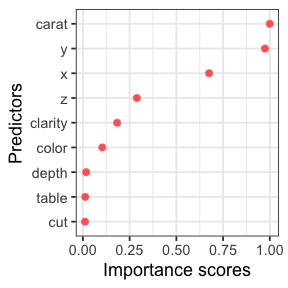
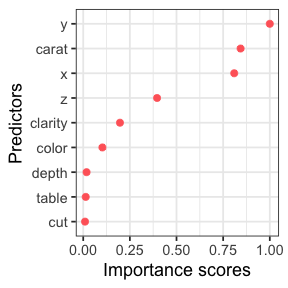
typo

diff --git a/pres/intro-to-rf.html b/pres/intro-to-rf.html
@@ -281,32 +281,35 @@ rpart.plot(first_model)
 ---
 
 
-```r
-# Adding now the carat as a predictor
-second_model &lt;- rpart(price ~ cut + color + depth + carat, 
-                     data = data)
 
+```r
+# Adding now a few more predictors
+
+second_model &lt;- rpart(price ~ cut + color + depth + carat, 
+                     data = train)
 second_model
 ```
 
 ```
-## n= 53940 
+## n= 40533 
 ## 
 ## node), split, n, deviance, yval
 ##       * denotes terminal node
 ## 
-##  1) root 53940 858473100000  3932.800  
-##    2) carat&lt; 0.995 34880  43459420000  1632.641  
-##      4) carat&lt; 0.625 24787   6616641000  1052.009 *
-##      5) carat&gt;=0.625 10093   7963754000  3058.593 *
-##    3) carat&gt;=0.995 19060 292761600000  8142.115  
-##      6) carat&lt; 1.495 12825  60730000000  6139.890 *
-##      7) carat&gt;=1.495 6235  74861710000 12260.560  
-##       14) carat&lt; 1.915 4051  35816530000 10872.790 *
-##       15) carat&gt;=1.915 2184  16771810000 14834.690 *
+##  1) root 40533 649205500000  3950.496  
+##    2) carat&lt; 0.995 26120  32647670000  1635.811  
+##      4) carat&lt; 0.625 18529   4916240000  1051.213 *
+##      5) carat&gt;=0.625 7591   5942264000  3062.765 *
+##    3) carat&gt;=0.995 14413 222997400000  8145.291  
+##      6) carat&lt; 1.495 9747  46499840000  6147.496 *
+##      7) carat&gt;=1.495 4666  56331320000 12318.570  
+##       14) carat&lt; 1.915 3006  26690610000 10896.170 *
+##       15) carat&gt;=1.915 1660  12545830000 14894.300 *
 ```
 
+
 ---
+
 
 ```r
 rpart.plot(second_model)
@@ -341,7 +344,7 @@ second_model$variable.importance/max(second_model$variable.importance)
 
 ```
 ##       carat       color       depth         cut 
-## 1.000000000 0.029738668 0.005362746 0.001953665
+## 1.000000000 0.030817117 0.004239303 0.001158316
 ```
 
 (Much better seen as a normalized measure!)
@@ -371,7 +374,7 @@ rmse(pred_second)
 ```
 
 ```
-## [1] 176905.9
+## [1] 176960.1
 ```
 
 
@@ -479,8 +482,8 @@ first_rf
 ## Target node size:                 5 
 ## Variable importance mode:         none 
 ## Splitrule:                        variance 
-## OOB prediction error (MSE):       2246387 
-## R squared (OOB):                  0.8597508
+## OOB prediction error (MSE):       2236271 
+## R squared (OOB):                  0.8603823
 ```
 
 
@@ -524,8 +527,8 @@ second_rf
 ## Target node size:                 5 
 ## Variable importance mode:         impurity 
 ## Splitrule:                        variance 
-## OOB prediction error (MSE):       326218.2 
-## R squared (OOB):                  0.9796331
+## OOB prediction error (MSE):       330411.3 
+## R squared (OOB):                  0.9793714
 ```
 
 
@@ -541,7 +544,7 @@ rmse(pred_rf_first)
 ```
 
 ```
-## [1] 173929
+## [1] 171772.8
 ```
 
 ```r
@@ -549,7 +552,7 @@ rmse(pred_rf_second)
 ```
 
 ```
-## [1] 64071.71
+## [1] 64745.46
 ```
 
 Much better!
@@ -633,8 +636,8 @@ third_rf
 ## Target node size:                 5 
 ## Variable importance mode:         impurity 
 ## Splitrule:                        variance 
-## OOB prediction error (MSE):       350341.4 
-## R squared (OOB):                  0.9781271
+## OOB prediction error (MSE):       372112.6 
+## R squared (OOB):                  0.9767678
 ```
 
 Very similar to the previous model!
@@ -651,7 +654,7 @@ rmse(pred_rf_third)
 ```
 
 ```
-## [1] 65528.43
+## [1] 67809.49
 ```
 
 ---
